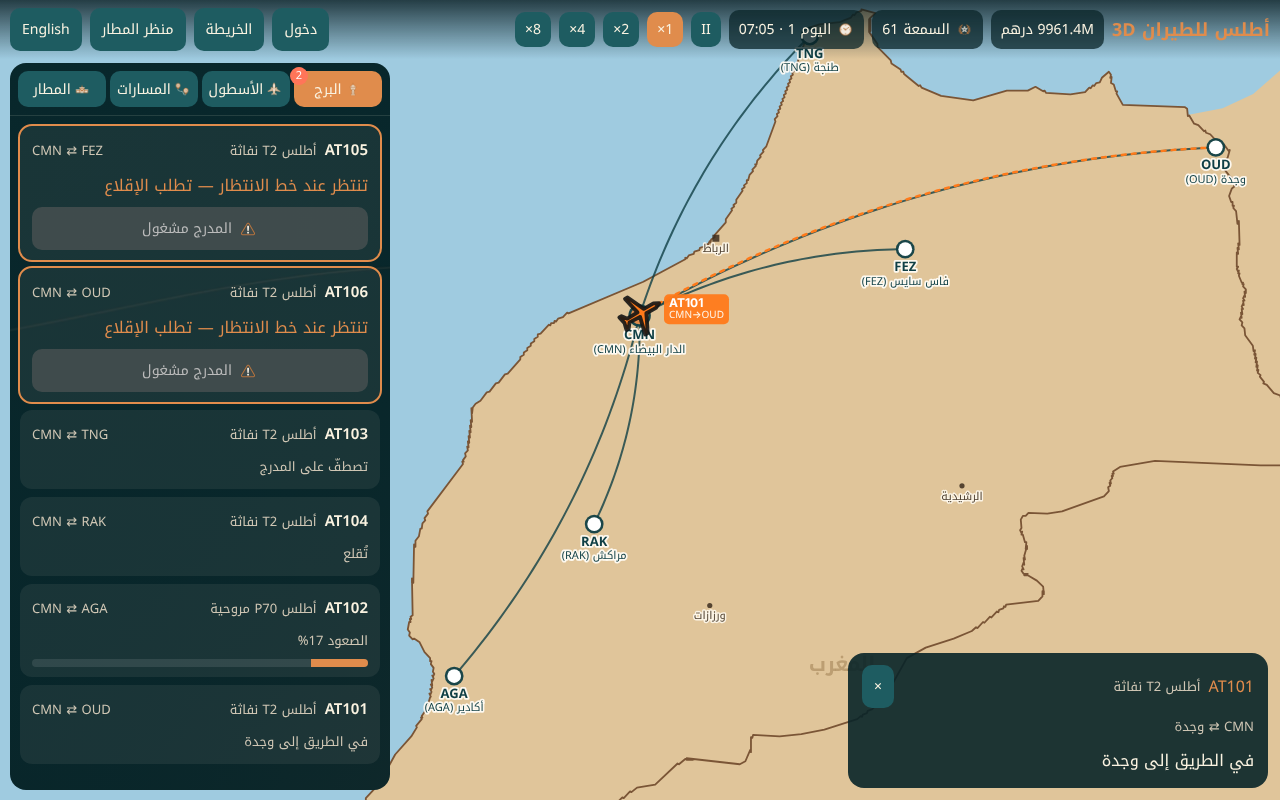
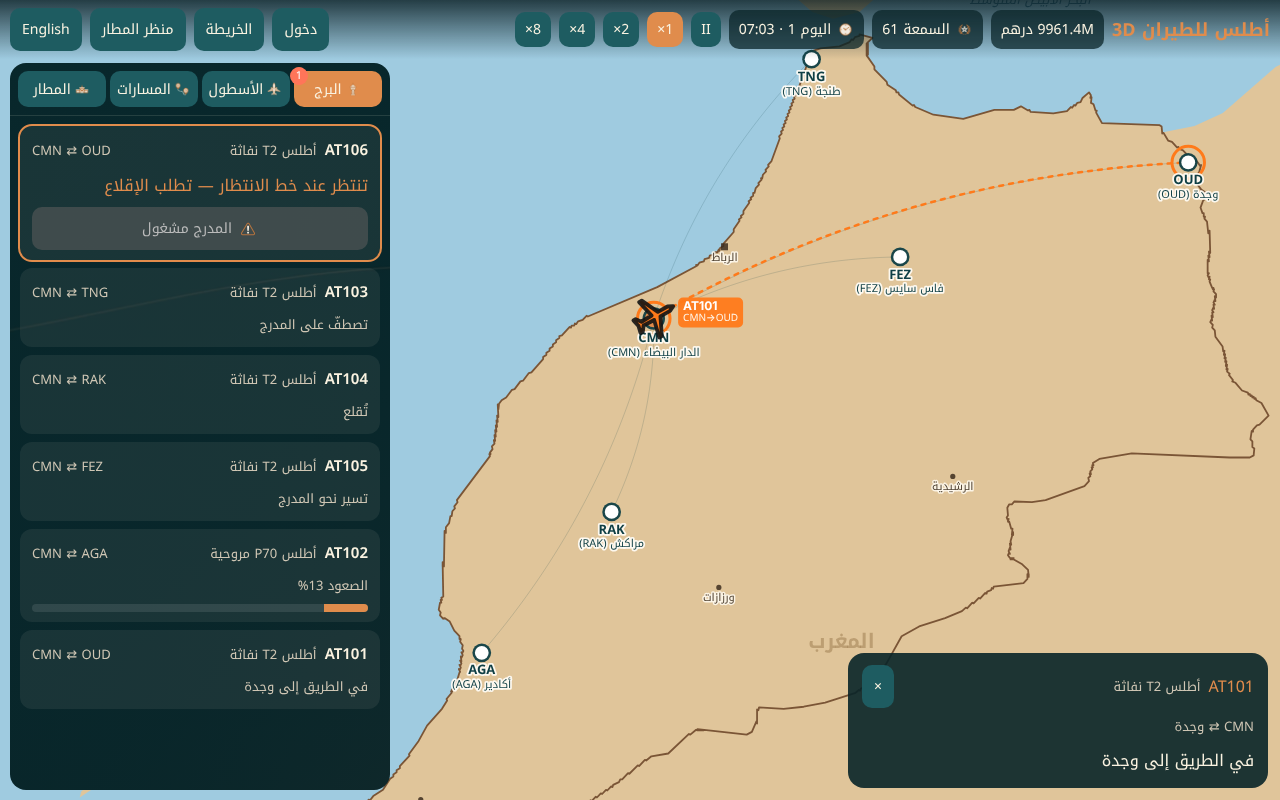
Flight map: network routes barely visible; no aircraft path unless selected; selected flight shows its full path with origin and destination rings
Claude-Session: https://claude.ai/code/session_01RoqHu2TiYBxYCF6HuHvMh8

diff --git a/web/js/flightmap.js b/web/js/flightmap.js
@@ -19,7 +19,7 @@ const ARC = 0.12;
 const smooth = (a, b, x) => { const k = Math.min(Math.max((x - a) / (b - a), 0), 1); return k * k * (3 - 2 * k); };
 const PLANE = new Path2D('M0,-0.5 L0.06,-0.38 L0.06,-0.12 L0.48,0.08 L0.48,0.15 L0.06,0.05 L0.05,0.33 L0.17,0.42 L0.17,0.48 L0,0.44 L-0.17,0.48 L-0.17,0.42 L-0.05,0.33 L-0.06,0.05 L-0.48,0.15 L-0.48,0.08 L-0.06,-0.12 L-0.06,-0.38 Z');
 const OUT_STATES = ['ready', 'pushback', 'taxi_out', 'holding', 'lineup', 'takeoff'];
-const C = { sea: '#9fcbe0', land: '#e0c59a', morocco: '#e0c59a', border: '#7a5536', countryLine: 'rgba(140,104,78,0.9)', route: 'rgba(15,63,69,0.8)', routeOff: 'rgba(15,63,69,0.35)',
+const C = { sea: '#9fcbe0', land: '#e0c59a', morocco: '#e0c59a', border: '#7a5536', countryLine: 'rgba(140,104,78,0.9)', route: 'rgba(15,63,69,0.16)', routeOff: 'rgba(15,63,69,0.08)',
   trail: '#e89b00', plane: '#ffcc00', planeSel: '#ff7a1a', ground: '#d9dee0' };
 
 /** Quadratic arc between two 2D points [x, y] at k in [0, 1]: point and tangent. Bulges to one side so both legs share it. */
@@ -165,7 +165,7 @@ export class FlightMap {
       const open = !!S.routes[d.code], b = [this.km[d.code][0] - hk[0], this.km[d.code][1] - hk[1]], n = Math.hypot(...b);
       const A = this.project3(hw.x, hw.z, cam), B = this.project3(hw.x + b[0] / n * 80000, hw.z - b[1] / n * 80000, cam);
       if (!A.ok || !B.ok) continue;
-      g.setLineDash(open ? [] : [6, 6]); g.lineWidth = open ? 2.2 : 1.2; g.strokeStyle = open ? 'rgba(255,255,255,0.75)' : 'rgba(255,255,255,0.35)';
+      g.setLineDash(open ? [] : [4, 6]); g.lineWidth = 1; g.strokeStyle = open ? 'rgba(255,255,255,0.18)' : 'rgba(255,255,255,0.08)';
       g.beginPath(); g.moveTo(A.x, A.y); g.lineTo(B.x, B.y); g.stroke();
     }
     g.setLineDash([]);
@@ -229,7 +229,7 @@ export class FlightMap {
     for (const d of Object.values(DB.dests)) {
       if (!this.km[d.code]) continue;
       const open = !!S.routes[d.code];
-      g.setLineDash(open ? [] : [6, 6]); g.lineWidth = open ? 2 : 1.2; g.strokeStyle = open ? C.route : C.routeOff;
+      g.setLineDash(open ? [] : [4, 6]); g.lineWidth = 1; g.strokeStyle = open ? C.route : C.routeOff;
       path(HK, this.km[d.code], 0, 1);
     }
     g.setLineDash([]);
@@ -248,9 +248,11 @@ export class FlightMap {
       if (sel) {
         g.lineWidth = 4; g.strokeStyle = C.planeSel; legPath(p.L, 0, k);
         g.setLineDash([4, 6]); g.lineWidth = 2.5; legPath(p.L, k, 1); g.setLineDash([]);
-      } else {
-        g.lineWidth = 3; g.strokeStyle = 'rgba(232,155,0,0.75)'; legPath(p.L, Math.max(0, k - 0.12), k);
-      }
+        for (const code of p.leg) {                 // ring the departure and destination airports
+          if (!this.km[code]) continue; const [x, y] = P(this.km[code]);
+          g.beginPath(); g.arc(x, y, 13 * this.scale, 0, Math.PI * 2); g.lineWidth = 3; g.strokeStyle = C.planeSel; g.stroke();
+        }
+      }   // other aircraft: no path drawn until selected
     }
 
     // Airports.

diff --git a/docs/PROJECT_LOG.md b/docs/PROJECT_LOG.md
@@ -50,6 +50,7 @@
 | 23 | **حدود العالم** | السواحل وحدود الدول من خريطتك العالمية محوّلة إلى خطوط متجهة حادة (`data/maps/world.json`، الأداة `tools/vectorize_world.py`)، المغرب من خريطته المفصّلة فوقها بلا فجوات |
 | 24 | **مسارات متصلة على الخريطة** | كل رحلة مسار واحد متصل: تبدأ من نقطة الإقلاع الفعلية وتنتهي عند بداية الاقتراب، الالتفاف يعود إلى الاقتراب، الانتظار دوران حول نقطة الدخول؛ أيقونة واحدة لكل طائرة، والمسار الكامل للطائرة المختارة فقط. القفزات على الخريطة: 13 → 0 |
 | 25 | **مسار خاص لكل طائرة** | على خريطة البلد تظهر الطائرة عند مغادرة منطقة المطار وتختفي عند وصولها؛ لا أيقونات على الأرض ولا عند المحطات؛ الانتظار للهبوط على نقطة خاصة في مسار الطائرة نفسها؛ الحركة متصلة بلا قفز (مقاسة) |
+| 26 | **مسارات أهدأ** | خطوط الشبكة بين المطارات باهتة جدًا؛ لا مسار لأي طائرة إلا عند اختيارها، وعندها يظهر من أين أتت وإلى أين تذهب مع حلقة على المطارين |
 
 ---
 
